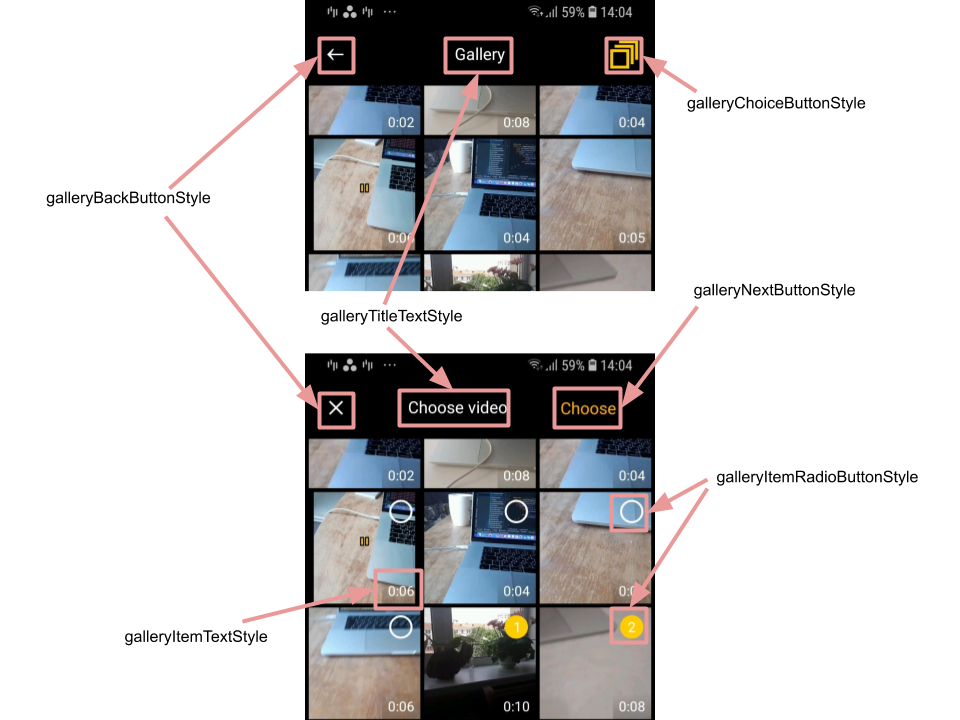
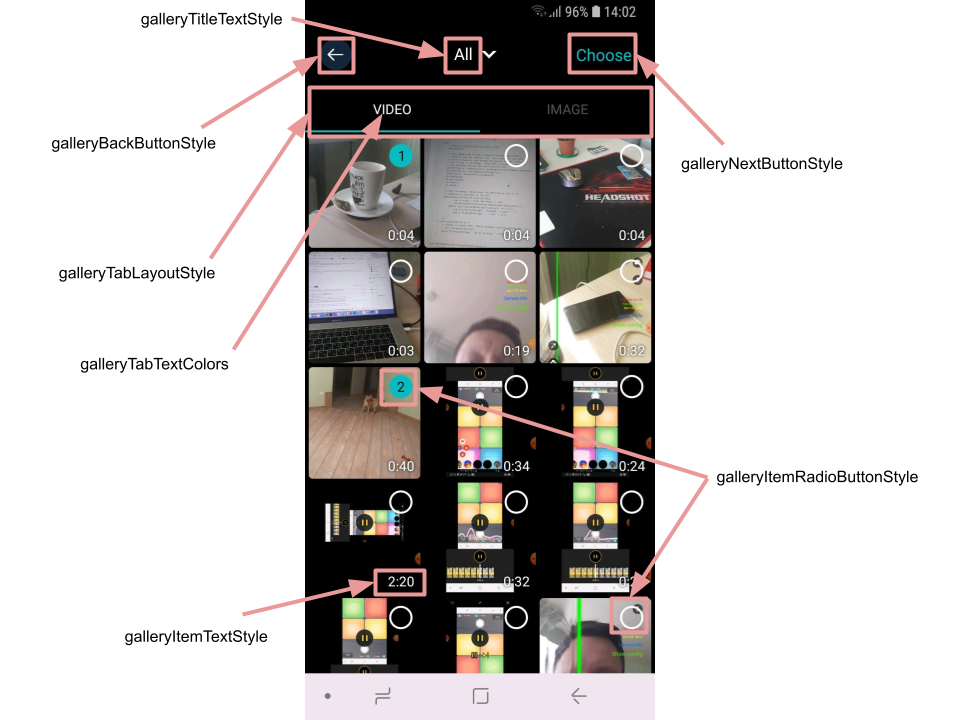
fix gallery screen styles

diff --git a/mddocs/gallery_styles.md b/mddocs/gallery_styles.md
@@ -1,55 +1,61 @@
 # Banuba VideoEditor SDK
 ## Gallery screen styles
 
-- [galleryImageViewStyle](https://github.com/Banuba/ve-sdk-android-integration-sample/blob/main/app/src/main/res/values/themes.xml#L90)
+- [galleryImageViewStyle](https://github.com/Banuba/ve-sdk-android-integration-sample/blob/main/app/src/main/res/values/themes.xml#L85)
 
-    style defines the overview of gallery icon on the camera screen. By default the last media resource is used as gallery icon drawable. It can be changed by switching "use_custom_image" attribute to "true" and setup custom drawable as a background resource in this style
-- [galleryTitleTextStyle](https://github.com/Banuba/ve-sdk-android-integration-sample/blob/main/app/src/main/res/values/themes.xml#L91)
+    style defines the overview of gallery icon on the **camera screen**. By default the last media resource is used as gallery icon drawable. To show the custom icon for gallery the `use_custom_image` attribute should be changed to "true" and the custom drawable should be passed as `android:src` value. If there are no media resource on the device the icon from `icon_empty_gallery` attribute of `CameraOverlayView` style is used (if `use_custom_image` is false). 
 
-    style for the gallery screen title. For pictures gallery the recent album's title is used
-- [galleryChoiceButtonStyle](https://github.com/Banuba/ve-sdk-android-integration-sample/blob/main/app/src/main/res/values/themes.xml#L92)
+    ![img](screenshots/gallery0.png)
 
-    style for the button that switches multi selection
-- [galleryBackButtonStyle](https://github.com/Banuba/ve-sdk-android-integration-sample/blob/main/app/src/main/res/values/themes.xml#L93)
+- [galleryTitleTextStyle](https://github.com/Banuba/ve-sdk-android-integration-sample/blob/main/app/src/main/res/values/themes.xml#L86)
 
-    style for the button placed on the top left corner of the screen. This button has different drawables depends on the current gallery state and has different behaviour:
-    - ["back"](gallery_styles.md#L50) to return to the previous screen
-    - ["cross"](gallery_styles.md#L51) to cancel multi selection mode
-- [galleryNextButtonStyle](https://github.com/Banuba/ve-sdk-android-integration-sample/blob/main/app/src/main/res/values/themes.xml#L94)
+    style for the gallery screen title (screen title equals to the selected media album)
 
-    style for the button that appears in case of multi selection mode to proceed with selected resources
-- [galleryItemRadioButtonStyle](https://github.com/Banuba/ve-sdk-android-integration-sample/blob/main/app/src/main/res/values/themes.xml#L95)
+- [galleryBackButtonStyle](https://github.com/Banuba/ve-sdk-android-integration-sample/blob/main/app/src/main/res/values/themes.xml#L87)
+
+    style for the button placed on the top left corner of the screen to return to the previous screen
+- [galleryNextButtonStyle](https://github.com/Banuba/ve-sdk-android-integration-sample/blob/main/app/src/main/res/values/themes.xml#L88)
+
+    style for the button that appears during selection to proceed with selected resources
+- [galleryItemRadioButtonStyle](https://github.com/Banuba/ve-sdk-android-integration-sample/blob/main/app/src/main/res/values/themes.xml#L89)
 
     style for the radio button that is used to define selected resource. It has a bulk of custom attributes to customize internal colors 
-- [galleryItemTextStyle](https://github.com/Banuba/ve-sdk-android-integration-sample/blob/main/app/src/main/res/values/themes.xml#L96)
+- [galleryItemTextStyle](https://github.com/Banuba/ve-sdk-android-integration-sample/blob/main/app/src/main/res/values/themes.xml#L90)
 
     style for the TextView that shows duration for video resources
 
+- [galleryTabLayoutStyle](https://github.com/Banuba/ve-sdk-android-integration-sample/blob/main/app/src/main/res/values/themes.xml#L95)
+
+    style for the tab layout used for video and image tabs 
+
+- [galleryTabTextColors](https://github.com/Banuba/ve-sdk-android-integration-sample/blob/main/app/src/main/res/values/themes.xml#L96)
+
+    attribute holds the text colors for different states of tabs
+
     ![img](screenshots/gallery1.png)
 
-- [galleryEmptyTextStyle](https://github.com/Banuba/ve-sdk-android-integration-sample/blob/main/app/src/main/res/values/themes.xml#L97)
+- [galleryEmptyTextStyle](https://github.com/Banuba/ve-sdk-android-integration-sample/blob/main/app/src/main/res/values/themes.xml#L91)
 
     style for the title and description views that are shown in case of empty gallery
-- [galleryAlbumBlurViewStyle](https://github.com/Banuba/ve-sdk-android-integration-sample/blob/main/app/src/main/res/values/themes.xml#L98)
+- [galleryAlbumBlurViewStyle](https://github.com/Banuba/ve-sdk-android-integration-sample/blob/main/app/src/main/res/values/themes.xml#L92)
 
     style for the custom view that is used to apply blur effect as a background for albums list. It can have custom tint via "overlay_color" attribute
-- [galleryAlbumTitleTextStyle](https://github.com/Banuba/ve-sdk-android-integration-sample/blob/main/app/src/main/res/values/themes.xml#L99)
+- [galleryAlbumTitleTextStyle](https://github.com/Banuba/ve-sdk-android-integration-sample/blob/main/app/src/main/res/values/themes.xml#L93)
 
     style for the album title
-- [galleryAlbumDescTextStyle](https://github.com/Banuba/ve-sdk-android-integration-sample/blob/main/app/src/main/res/values/themes.xml#L100)
+- [galleryAlbumDescTextStyle](https://github.com/Banuba/ve-sdk-android-integration-sample/blob/main/app/src/main/res/values/themes.xml#L94)
 
     style for the album description
 
     ![img](screenshots/gallery2.png)
 
 Besides concrete styles there are a lot of theme attributes that allows to configure gallery screen:
-- [galleryColumnsNumber](https://github.com/Banuba/ve-sdk-android-integration-sample/blob/main/app/src/main/res/values/themes.xml#L102) - setup how much columns the gallery screen shows
-- [gallery_bg_color](https://github.com/Banuba/ve-sdk-android-integration-sample/blob/main/app/src/main/res/values/themes.xml#L104) - background color for gallery screen
-- [gallery_item_corner_radius](https://github.com/Banuba/ve-sdk-android-integration-sample/blob/main/app/src/main/res/values/themes.xml#L105) - setup corner radius for every gallery item
-- [gallery_item_margin](https://github.com/Banuba/ve-sdk-android-integration-sample/blob/main/app/src/main/res/values/themes.xml#L106) - setup margins between items in gallery (applied in all directions)
-- [gallery_icon_back](https://github.com/Banuba/ve-sdk-android-integration-sample/blob/main/app/src/main/res/values/themes.xml#L107) - for drawable in case of "back" button returns to the previous screen
-- [gallery_icon_cross](https://github.com/Banuba/ve-sdk-android-integration-sample/blob/main/app/src/main/res/values/themes.xml#L108) - for drawable in case of "back" button cancels selected resources
-- [gallery_album_divider_color](https://github.com/Banuba/ve-sdk-android-integration-sample/blob/main/app/src/main/res/values/themes.xml#L109) - divider color in the albums list
+- [galleryColumnsNumber](https://github.com/Banuba/ve-sdk-android-integration-sample/blob/main/app/src/main/res/values/themes.xml#L98) - setup how much columns the gallery screen shows
+- [gallery_bg_color](https://github.com/Banuba/ve-sdk-android-integration-sample/blob/main/app/src/main/res/values/themes.xml#L99) - background color for gallery screen
+- [gallery_item_corner_radius](https://github.com/Banuba/ve-sdk-android-integration-sample/blob/main/app/src/main/res/values/themes.xml#L100) - setup corner radius for every gallery item
+- [gallery_item_margin](https://github.com/Banuba/ve-sdk-android-integration-sample/blob/main/app/src/main/res/values/themes.xml#L101) - setup margins between items in gallery (applied in all directions)
+- [gallery_icon_back](https://github.com/Banuba/ve-sdk-android-integration-sample/blob/main/app/src/main/res/values/themes.xml#L102) - for drawable in case of "back" button returns to the previous screen
+- [gallery_album_divider_color](https://github.com/Banuba/ve-sdk-android-integration-sample/blob/main/app/src/main/res/values/themes.xml#L103) - divider color in the albums list
 
 ## String resources
 
@@ -57,9 +63,9 @@ Besides concrete styles there are a lot of theme attributes that allows to confi
 | ------------- | :----------- | :------------- |
 | gallery_next | Choose | text on the button that opens the editor screen with selected videos or images. Defined in ```galleryNextButtonStyle```
 | gallery_album_untitled | untitled | the title of the album that has no name (it may be created in case of some videos or images has no album name in theirs meta data)
-| gallery_album_all_photos | All photos | the title of the album that contains all image resources
-| gallery_album_all_video | All videos | the title of the album that contains all video resources
+| gallery_album_all_media | All | the title of the album that contains all media resources
 | gallery_empty_image_list | No images found | message that is shown in the middle of the gallery screen in case of there are no images found on device. The view is defined in ```galleryEmptyTextStyle```
 | gallery_empty_video_list | No videos found | message that is shown in the middle of the gallery screen in case of there are no videos found on device. The view is defined in ```galleryEmptyTextStyle```
 | gallery_choose_at_least | Select at least %1$d files | **plurals resource** that is used for the [toast](alert_styles.md#L11) message that is shown when the user want to open the editor screen but the number of selected resources (videos or images) is less than predefined custom value (recently "1" is used). This predefined value is a placeholder in every plural string resource here
 | err_gallery_video_creation | Failed to create video | message shown as a [toast](alert_styles.md#L11) in case of error that apperas during slideshow video creation from selected image resources
+| err_gallery_broken_file | Damaged file | message shown as a [toast](alert_styles.md#L11) in case of tapping on the damaged media file
